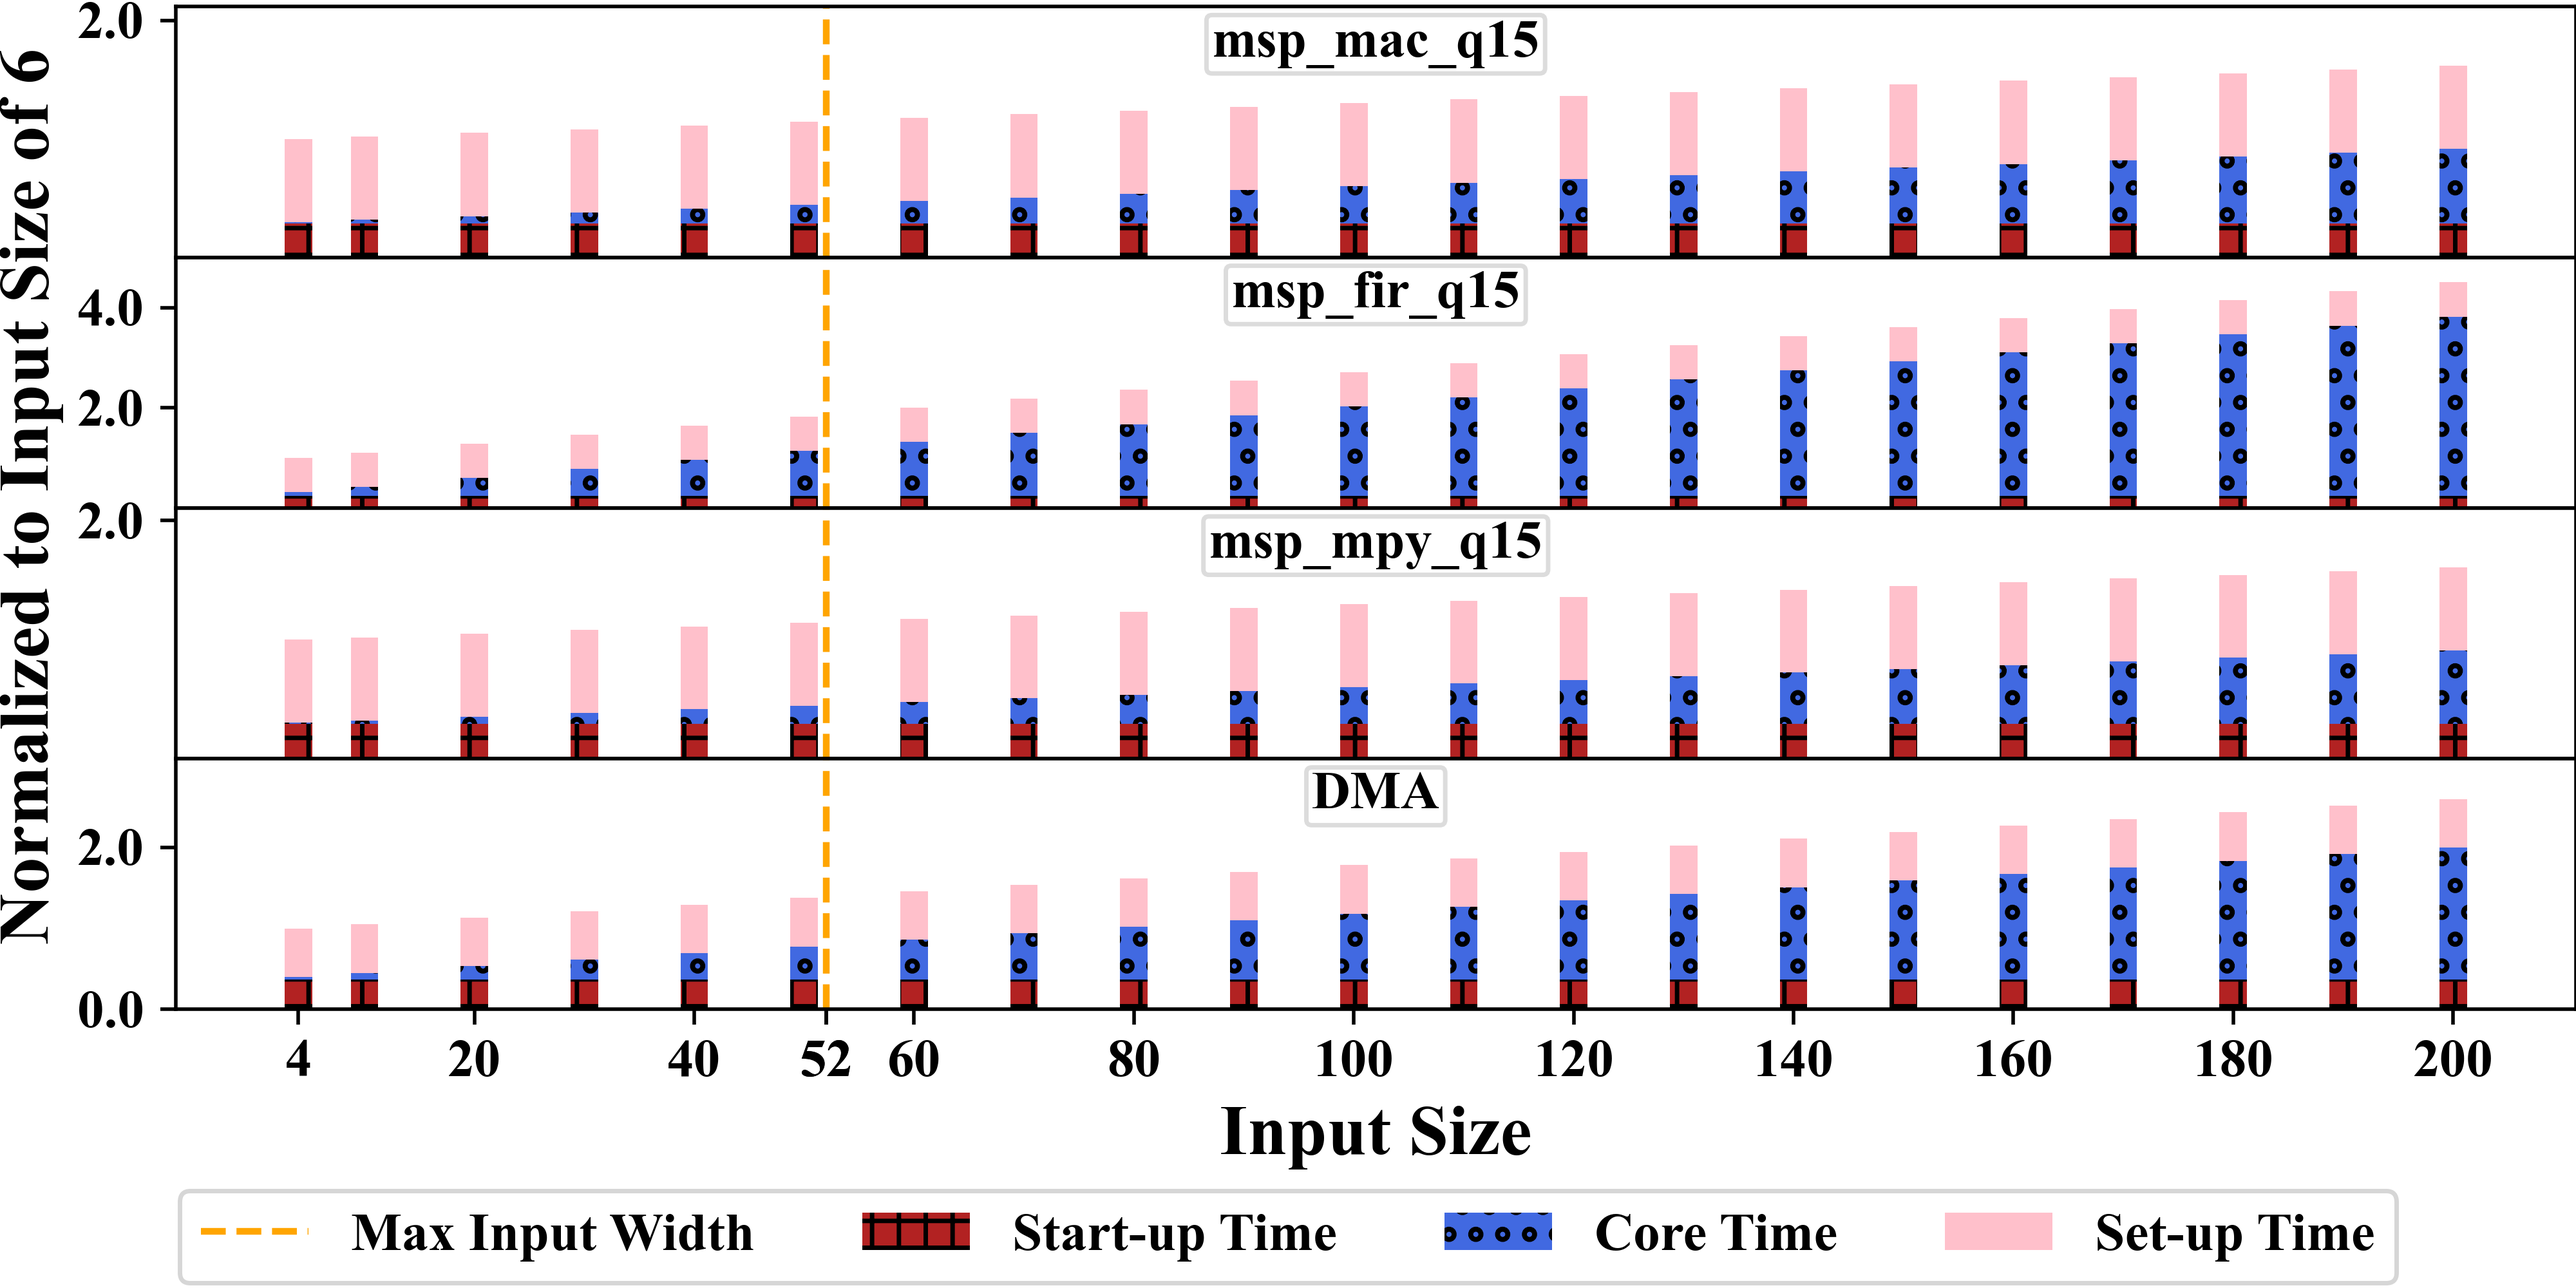
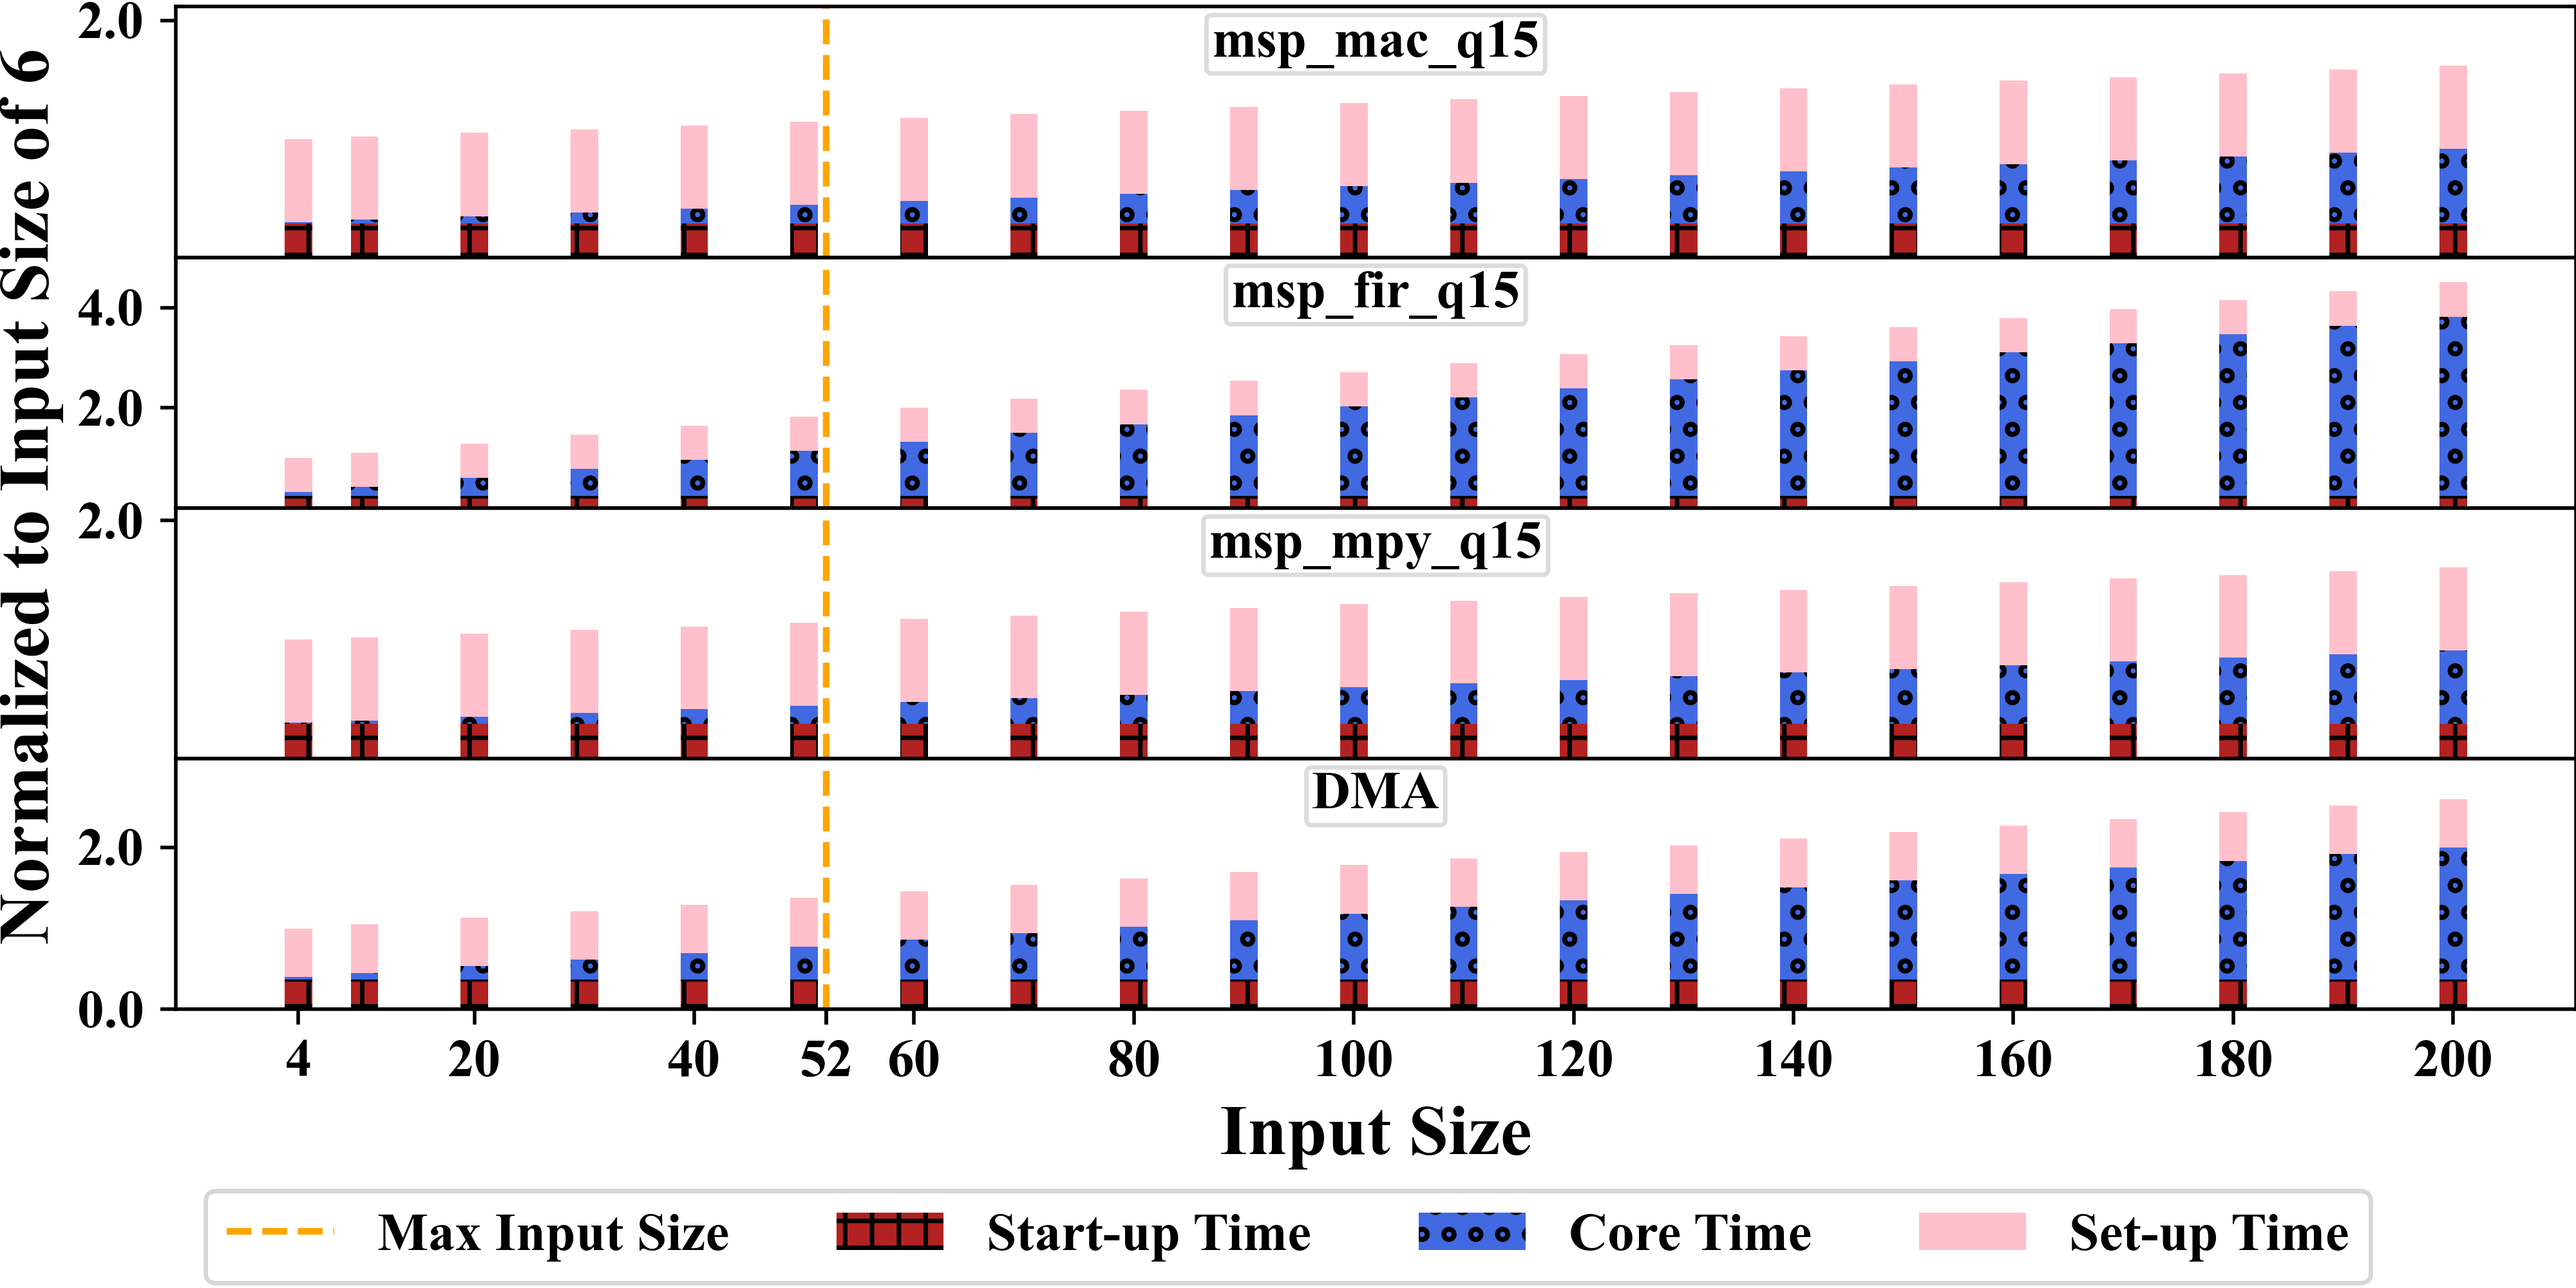
update plot

Changed region(s): [[0.0625, 0.93, 0.5, 1.0], [0.5938, 0.93, 0.9375, 1.0], [0.5312, 0.93, 0.5625, 0.961]]

diff --git a/logs/motivation/adaptive/plot.py b/logs/motivation/adaptive/plot.py
@@ -94,7 +94,7 @@ plt.rcParams.update({'font.size': 16})
 plt.rcParams["font.weight"] = "bold"
 plt.rcParams["axes.labelweight"] = "bold"
 
-fig, axs = plt.subplots(2, 2, figsize=(12, 8))
+fig, axs = plt.subplots(1, 2, figsize=(12, 4))
 
 def plot(data, k, ax, title, labels):
     kernel_size = f"kernel size: {k}"
@@ -103,37 +103,22 @@ def plot(data, k, ax, title, labels):
     fir_total_times = [data[f"input size: {size}"]["fir"][kernel_size]["total time"] for size in input_sizes]
     mac_total_times = [data[f"input size: {size}"]["mac"][kernel_size]["total time"] for size in input_sizes]
 
-    fir_compute_times = [data[f"input size: {size}"]["fir"][kernel_size]["compute time"] for size in input_sizes]
-    mac_compute_times = [data[f"input size: {size}"]["mac"][kernel_size]["compute time"] for size in input_sizes]
-
+    normalized_fir_total_times = [fir_total_times[i] / fir_total_times[i] for i in range(len(input_sizes))]
     normalized_mac_total_times = [mac_total_times[i] / fir_total_times[i] for i in range(len(input_sizes))]
-    normalized_mac_compute_times = [mac_compute_times[i] / fir_total_times[i] for i in range(len(input_sizes))]
 
     bar_width = 0.25
     index = np.arange(len(input_sizes))
 
     ax.bar(
-        index, np.array(fir_compute_times) / np.array(fir_total_times),
-        bar_width, label=labels[0], color='mediumvioletred', hatch='\\\\'
+        index, normalized_fir_total_times,
+        bar_width, label=labels[0], color='firebrick', hatch='++'
     )
     ax.bar(
-        index, 1-np.array(fir_compute_times) / np.array(fir_total_times),
-        bar_width, bottom=np.array(fir_compute_times) / np.array(fir_total_times),
-        color='pink', label=labels[1]
+        index + bar_width, normalized_mac_total_times, bar_width,
+        label=labels[1], color='royalblue', hatch='\\\\'
     )
 
-    ax.bar(
-        index + bar_width, normalized_mac_compute_times, bar_width,
-        label=labels[2], color='seagreen', hatch='\\\\'
-    )
-    ax.bar(
-        index + bar_width,
-        np.array(normalized_mac_total_times) - np.array(normalized_mac_compute_times),
-        bar_width, bottom=np.array(normalized_mac_compute_times), color='mediumspringgreen',
-        label=labels[3]
-    )
-
-    ax.set_ylim([0, 3.0])
+    ax.set_ylim([0, 1.5])
     if title:
         ax.set_title(f"{k}x{k} Kernel")
     else:
@@ -143,35 +128,23 @@ def plot(data, k, ax, title, labels):
     ax.yaxis.set_major_formatter(ticker.FormatStrFormatter('%.1f'))
 
 
-plot(log_base, 3, axs[0, 0], True, labels=[None]*4)
-plot(log_base, 5, axs[0, 1], True, labels=[None]*4)
-plot(log_lupe, 3, axs[1, 0], False, labels=[
-    "FIR (Compute Time)",
-    "FIR (Total Time)",
-    "MAC (Compute Time)",
-    "MAC (Total Time)",
+# plot(log_base, 3, axs[0, 0], True, labels=[None]*4)
+# plot(log_base, 5, axs[0, 1], True, labels=[None]*4)
+plot(log_lupe, 3, axs[0], False, labels=[
+    "FIR",
+    "MAC",
 ])
-plot(log_lupe, 5, axs[1, 1], False, labels=[None]*4)
+plot(log_lupe, 5, axs[1], False, labels=[None]*4)
 
-yticks = axs[0, 0].yaxis.get_major_ticks()
+yticks = axs[0].yaxis.get_major_ticks()
 yticks[0].label1.set_visible(False)
-yticks = axs[1, 0].yaxis.get_major_ticks()
-yticks[6].label1.set_visible(False)
 
-axs[0, 0].set_ylabel('Normalized to FIR\n(Bottom-up)')
-axs[1, 0].set_ylabel('Normalized to FIR\n(Top-down)')
+axs[0].set_ylabel('Normalized to FIR\n(Top-down)')
+axs[1].set_yticklabels([])
+axs[1].yaxis.set_tick_params(length=0)
 
-axs[0, 0].set_xticklabels([])
-axs[0, 0].xaxis.set_tick_params(length=0)
-axs[0, 1].set_xticklabels([])
-axs[0, 1].xaxis.set_tick_params(length=0)
-axs[0, 1].set_yticklabels([])
-axs[0, 1].yaxis.set_tick_params(length=0)
-axs[1, 1].set_yticklabels([])
-axs[1, 1].yaxis.set_tick_params(length=0)
-
-fig.legend(loc='lower center', ncol=4, fontsize=12, bbox_to_anchor=(0.5, -0.01))
-fig.tight_layout(pad=0, rect=[0, 0.04, 1, 1])
+fig.legend(loc='lower center', ncol=4, fontsize=12, bbox_to_anchor=(0.54, -0.02))
+fig.tight_layout(pad=0, rect=[0, 0.08, 1, 1])
 
 plt.subplots_adjust(hspace=0)
 plt.subplots_adjust(wspace=0)

diff --git a/apps/lea_op_bench/logs/plot.py b/apps/lea_op_bench/logs/plot.py
@@ -154,7 +154,7 @@ for i, (key, values) in enumerate(log_data.items()):
         current_ticks = axes[i].get_xticks()
         new_ticks = list(current_ticks) + [52]  # Add a new tick at 2.5
         axes[i].set_xticks(new_ticks)
-        axes[i].axvline(x=52, color='orange', linestyle='--', label='Max Input Width')
+        axes[i].axvline(x=52, color='orange', linestyle='--', label='Max Input Size')
 
     axes[i].text(0.5, 0.85, key, ha='center', va='center', transform=axes[i].transAxes, 
         fontsize=12, bbox=dict(facecolor='white', edgecolor='gainsboro', boxstyle='round,pad=0.1'))
